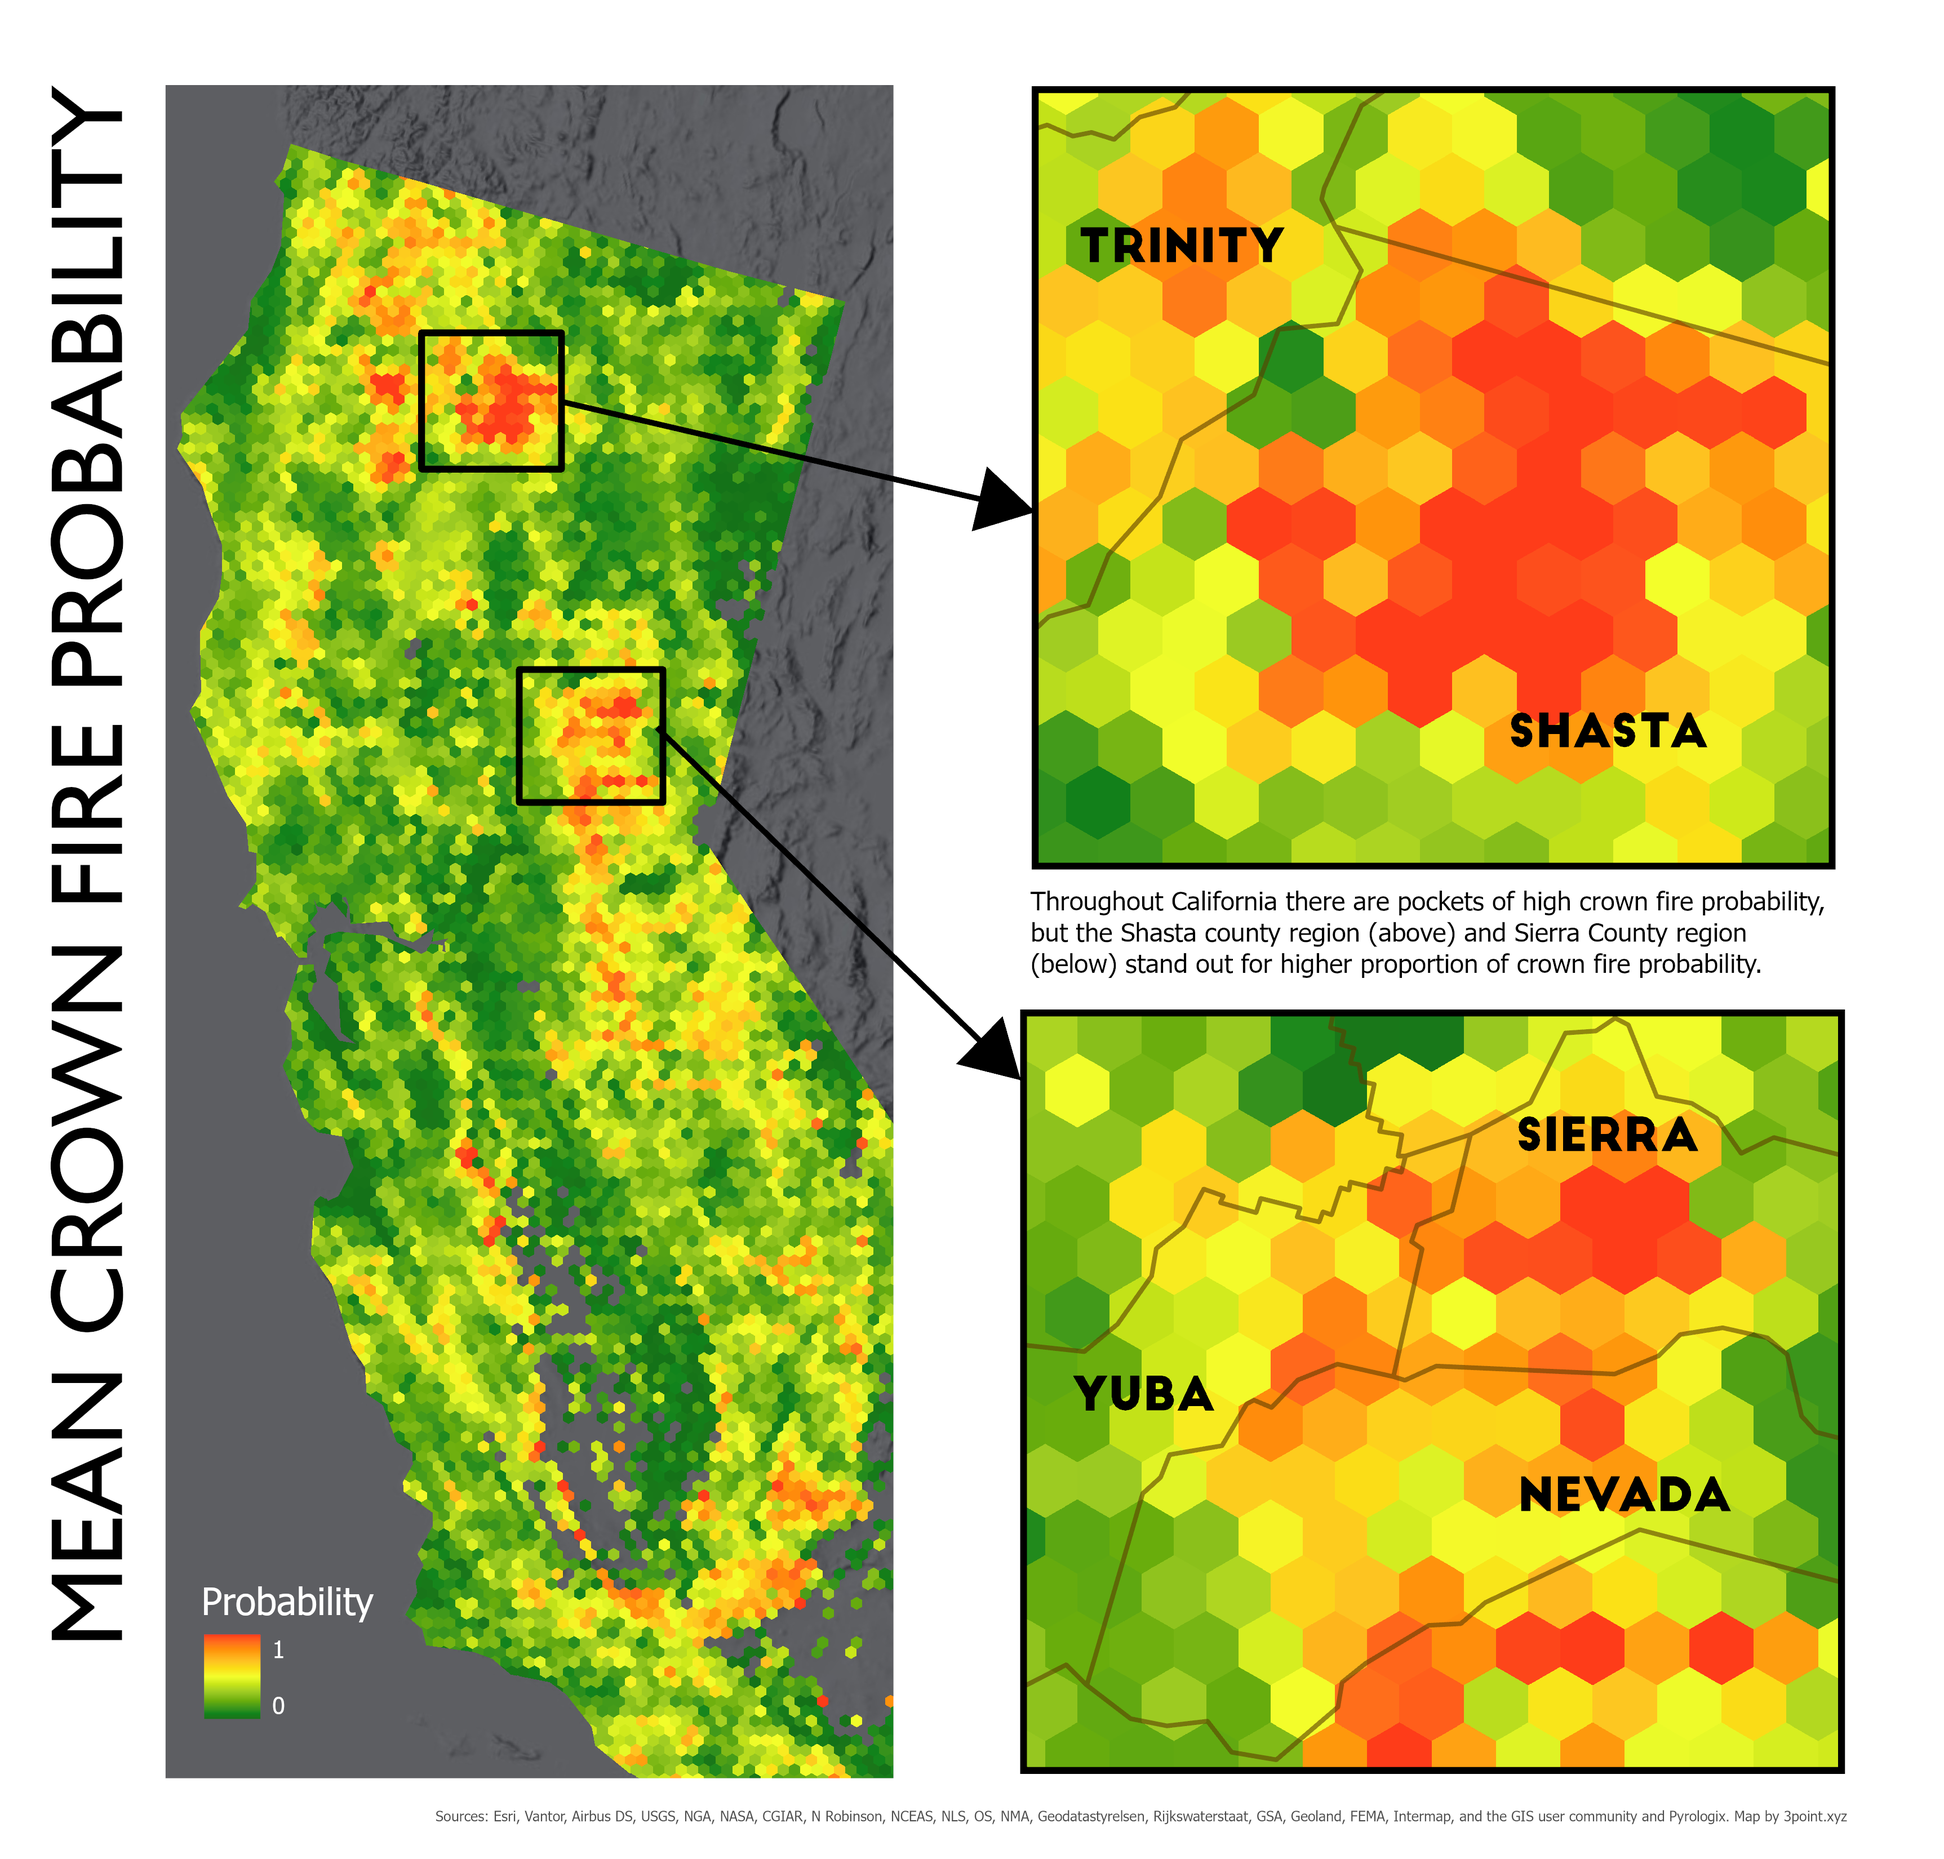
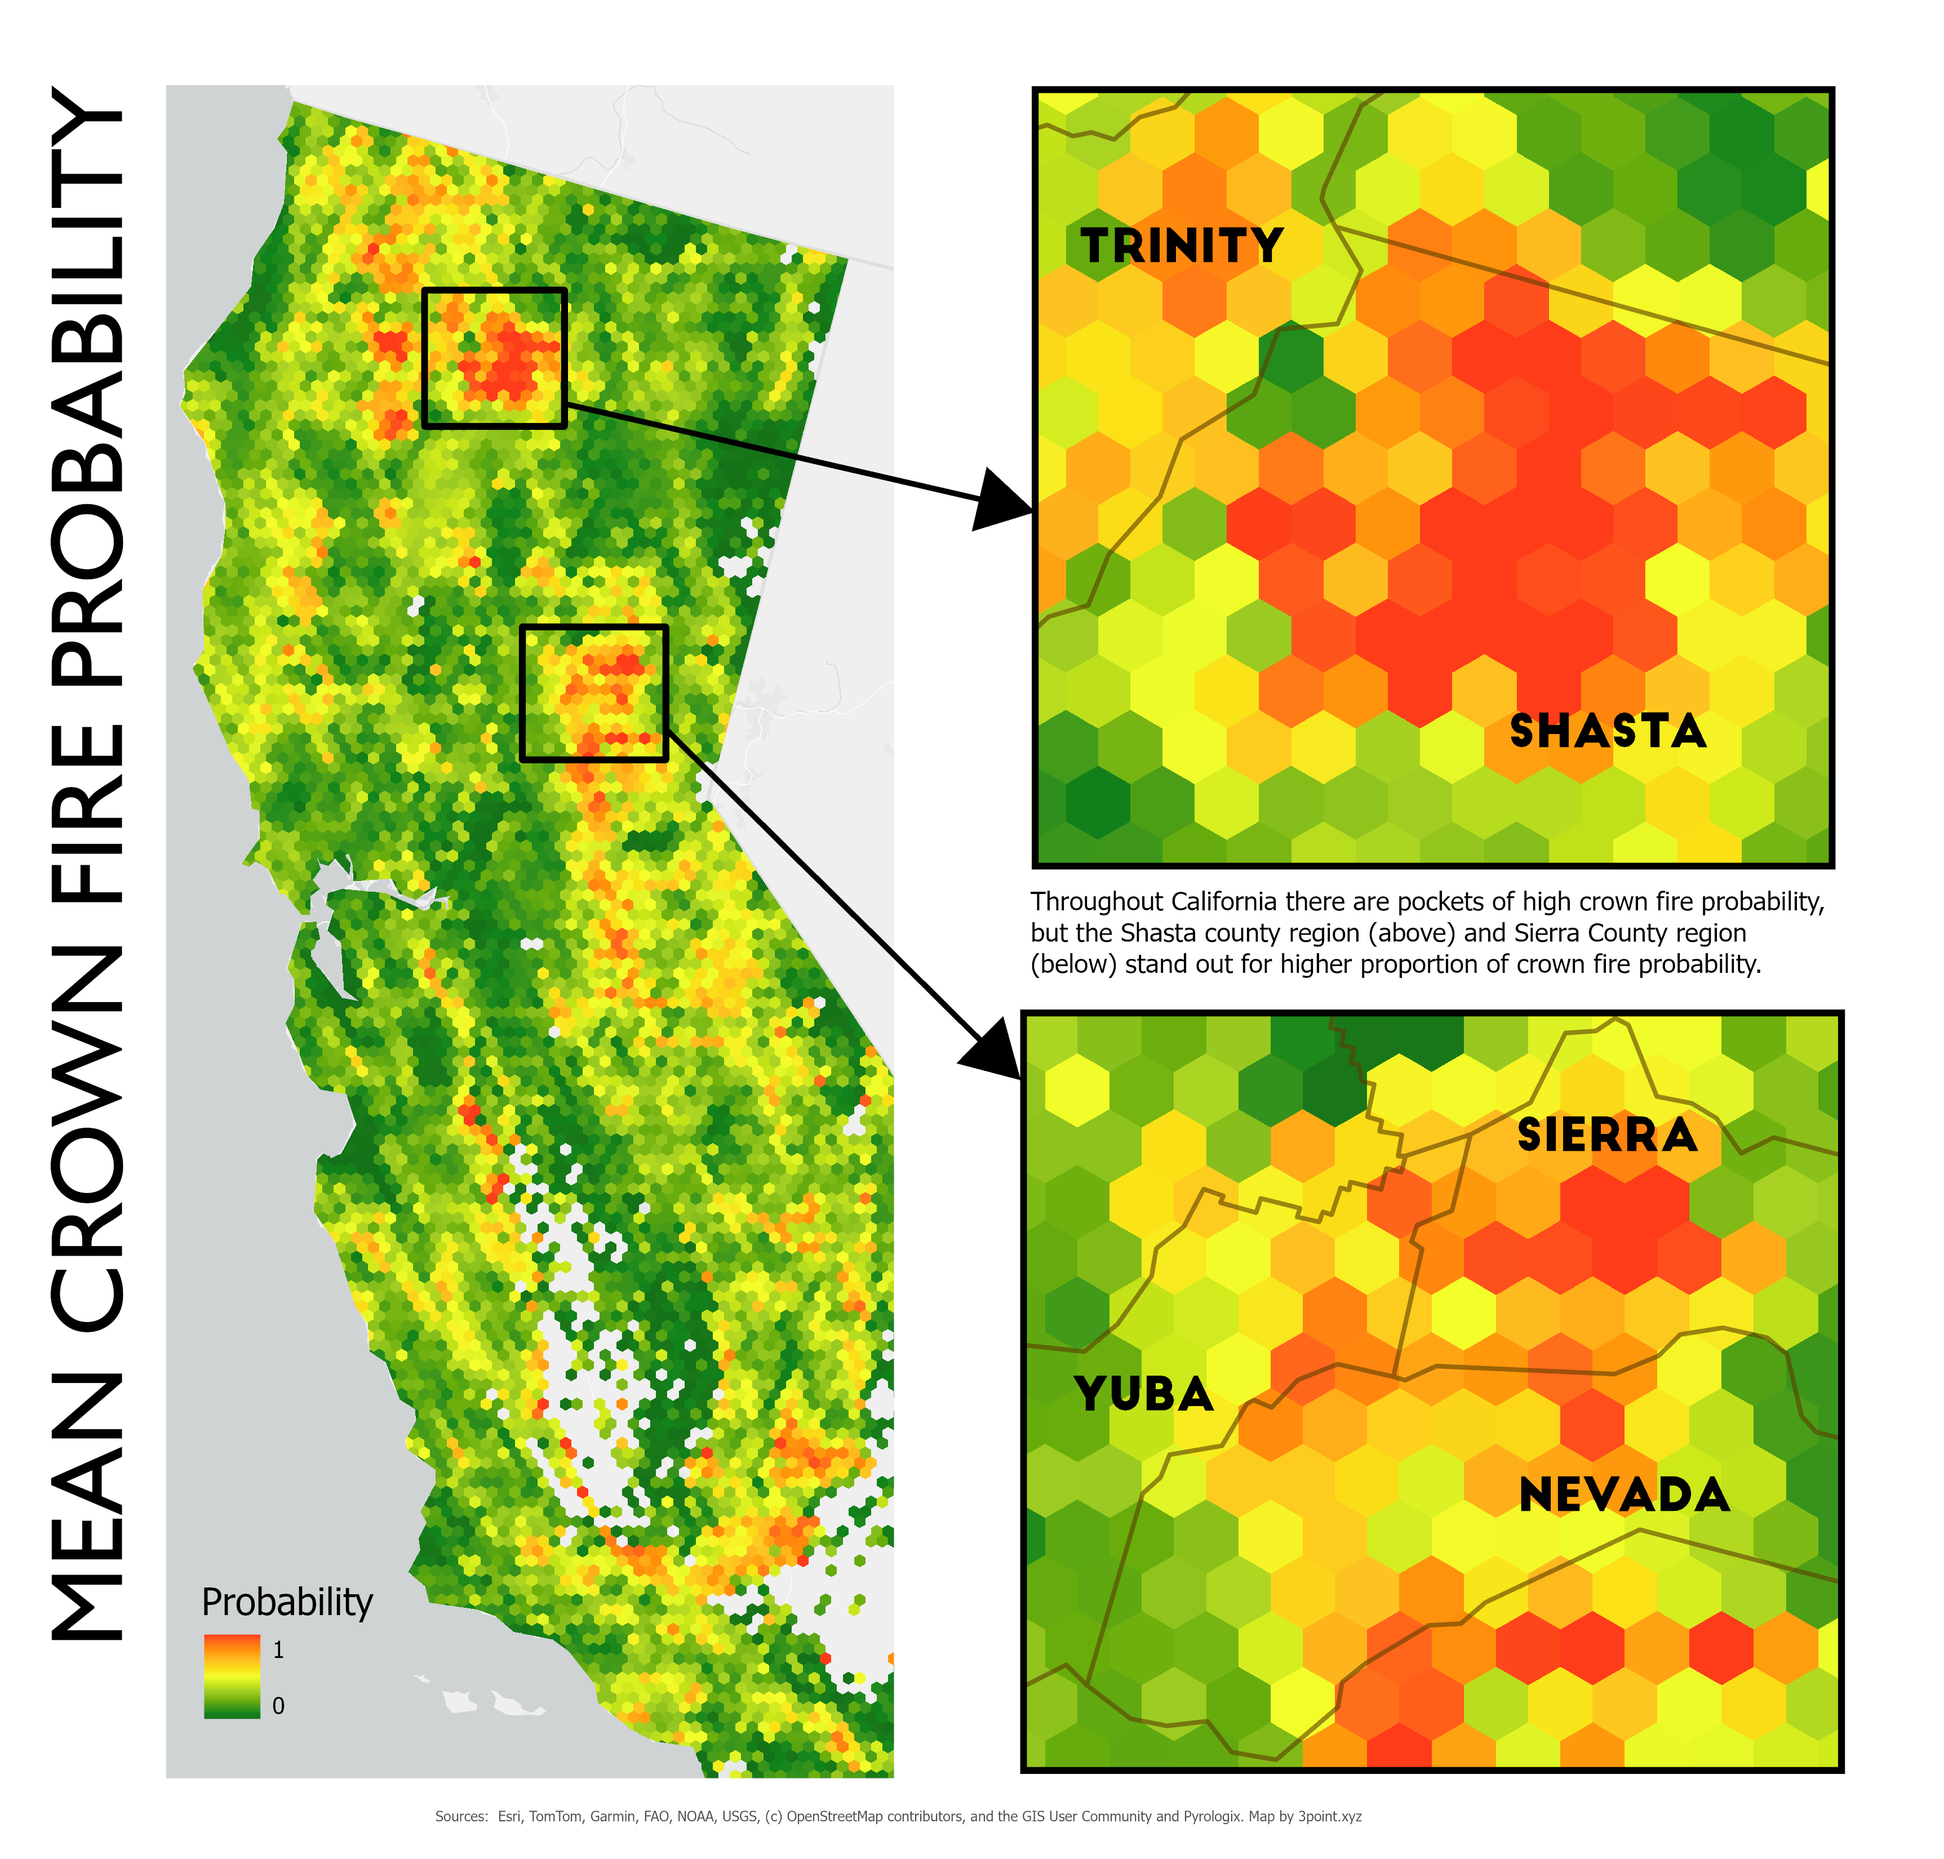
edits and map revisions

diff --git a/predict.md b/predict.md
@@ -8,9 +8,6 @@
 #     affiliations:
 #       - 3point.xyz
 #     email: vance@3point.xyz
-#   - name: Joshua Harrison
-#     affiliations:
-#       - Center for the Study of Force Majeure, UC Santa Cruz
 # license: CC-BY-4.0
 # keywords: forest health, climate, wildfire
 abstract: |
@@ -24,9 +21,11 @@ exports:
     output: exports/predict.pdf     
 ---
 
-# Takeaways
-- **Wildfire, climate catastrophe, and Trump** together are creating a perfect storm for potential wildfires this year.
-- 
+
+## Take yo mamma home
+- **Enabling condition**. Climate, wildfire, and forest service restructuring are combining to make 2026 a potentially bad year for wildfires.
+- **Pockets of infrequently burned and high crown fire probability** may point to where especially damaging fires may occur.
+- **Continuing to increase the pace and scale of forest health restoration** will increase forest resilience and resistance to disturbance, especially wildfire.
 
 # Background
 > "Wildfire season is fast approaching, and with low snowpack, dry conditions, and soaring temperatures across the U.S., experts are warning that 2026 may be one of the worst on record. Combine those extreme conditions with massive restructuring at the U.S. Forest Service (USFS), and the result is a powder keg for federal wildland firefighters." @clarke
@@ -38,12 +37,14 @@ Compounding the environmental conditions, the U.S. Forest Service lost 16% of it
 But then again every year seems to get a dire wildfire prediction. Is this media hype, climate reality, or does the data help sort out science from fiction? Let's take a closer look.
 
 # Predictive mapping
-Generally, examining wildfire probability or history datasets of California, it can be hard to decipher the dominant oranges or reds from anything else. {numref}`perimeters` shows all wildfires greater than 5,000 acres (2,023 hectares) since 2010 [@frap]. Again, the map mostly looks orange, but if we zoom into key areas where forest occur, there are some spot where there haven't been large fires since 2010 such as northwestern Shasta County or Nevada and Sierra Counties.
+Generally, examining wildfire probability or history datasets of California, it can be hard to decipher the dominant oranges or reds from anything else. {numref}`perimeters` shows all wildfires greater than 5,000 acres (2,023 hectares) since 2010 [@frap]. Again, the map mostly looks orange, but if we zoom into key areas where forest occur, there are some spot where there haven't been large fires since 2010 such as northwestern Shasta County or Nevada and Sierra Counties. 
+
+There is an especially large donut hole where there have not been large fires in the Sierra/Nevada and NE corner of Yuba county region for some time, really the only spot in the Sierra like this, except for Yosemite National Park where there's been a strong forest health and prescribed fire program for some time.
 
 :::{figure} perims.png
 :label: perimeters
 :height: 650
-Fire perimeters >5,000 acres since 2010 showing insets for Shasta County (above) and Sierra/Nevada Counties (below) where fewer large wildfires have occurred [@frap; @evt].
+Fire perimeters >5,000 acres since 2010 showing insets for Shasta County (above) and Sierra/Nevada Counties (below) where fewer large wildfires have occurred [@frap; @evt]. Map by 3point.xyz.
 :::
 
 
@@ -52,19 +53,22 @@ We then looked at the probability of fires occurring in these areas. {numref}`pr
 :::{figure} prob.png
 :label: probability
 :height: 650
-Mean crown fire probability showing inset closeups in the Shasta and Sierra/Nevada County areas where high concentrations of wildfire probablity exist [@pyrologix].
+Mean crown fire probability showing inset closeups in the Shasta and Sierra/Nevada County areas where high concentrations of wildfire probablity exist [@pyrologix]. Map by 3point.xyz.
+:::
 :::
 
 Although there are areas of high probability for severe wildfire scattered throughout California, the two areas that lit up were in the Shasta and Sierra/Nevada County regions where multiple polygons of high probability conncted. This doesn't mean that wildfires will take place in these areas, but it does mean the likelihood is higher. In the Nevada County area, there have been concerted efforts to thin forest and create fuel breaks throughout the County. However, there are pockets, particularly in private land holdings where thinning has not taken place and many houses in the wildland urban interface have not created defensible space nor cleared pine leaves from roofs and yards.
 
 # Biodiversity & Old-growth
+Biodiversity not high in the high risk areas
 
-# Wildfire disinformation
+For old-growth there does look like a relationship. Do a regression or zonal states then make a graph?
+
 As with climate change, misinformation about wildfire, forests, and logging has increasingly shaped public understanding and policy debates [@jones]. In California, this misinformation is often reinforced by deeply ingrained visual and cultural assumptions about what a healthy forest looks like. Many people implicitly picture dense, closed-canopy forests modeled on the eastern United States, northern Europe, or England, landscapes that evolved under very different climatic and ecological conditions. 
 
 California’s forests exist largely within a Mediterranean climate, characterized by wet winters and long, hot, dry summers. These conditions favor fire-adapted ecosystems rather than the dense, moisture-rich forests common in temperate eastern regions. When forest health is judged using the wrong ecological reference point, fire-adapted landscapes can be misdiagnosed as degraded or overmanaged, while overly dense stands are mistakenly viewed as natural or desirable. 
 
-These misconceptions shape how wildfire risk is interpreted and how solutions are evaluated. Simplified narratives, such as the claim that destructive fires are primarily a shrubland phenomenon, further obscure the reality that California’s most damaging fires occur across mixed landscapes that include forests, shrublands, and the wildland–urban interface. When wildfire ecology is misunderstood in this way, forest management and biomass utilization are often framed as unnecessary or harmful rather than as responses to a misaligned, historically altered system. 
+What happens when we examine old-growth and species diversity with fire?
 
 # Solutions
 Returning to the mantra burn, bury, build, we recommend that all biomass utilization solutions incorporate the highest and best uses of forest product pathways. Moving forward, several integrated pathways can support forest health and biomass utilization:
@@ -73,4 +77,5 @@ Returning to the mantra burn, bury, build, we recommend that all biomass utiliza
 2. **Climate adaptation and biomass integration**. Rapid scaling of forest health treatments, including thinning and prescribed fire, is critical to maintaining forest resilience in a warming climate [@delyser]. Policies that align forest treatments, biomass utilization, climate goals, and greenhouse gas reduction can reduce wildfire risk while ensuring that utilization infrastructure supports, rather than distorts, restoration outcomes [@biomass]. 
 3. **Biomass aggregation**. A major hurdle for treating more forest acres is long-term feedstock supply agreements. Creating joint powers authoritiies to manage agreements between public landowners and wood product businesses, could greatly increase forest acres treated, but also utilize the wood in a manner that sequesters carbon and increases biodiversity [@jpa].
 
-# Conclusion 
+# Conclusion REWRITE THIS AND INTRO
+While predicting the precise location of any given wildfire remains inherently uncertain, the convergence of historical fire patterns, crown fire probability modeling, and this year's extreme climatic conditions points to areas like Shasta and Nevada/Sierra Counties as particularly vulnerable. The data-driven approach underscores that it is not alarmism but empirical analysis that should guide preparedness, even as wildfire misinformation continues to muddy public debate. Addressing this crisis requires moving beyond suppression toward a sustained, landscape-scale program of thinning and prescribed fire, paired with infrastructure that can responsibly utilize the resulting biomass. Success will depend on policies that align forest restoration with climate goals, carbon sequestration, and economic viability through mechanisms like joint powers authorities for long-term feedstock agreements. Ultimately, the question is not whether severe fires will come, but whether we will have done enough to make our forests and communities resilient when they do.
